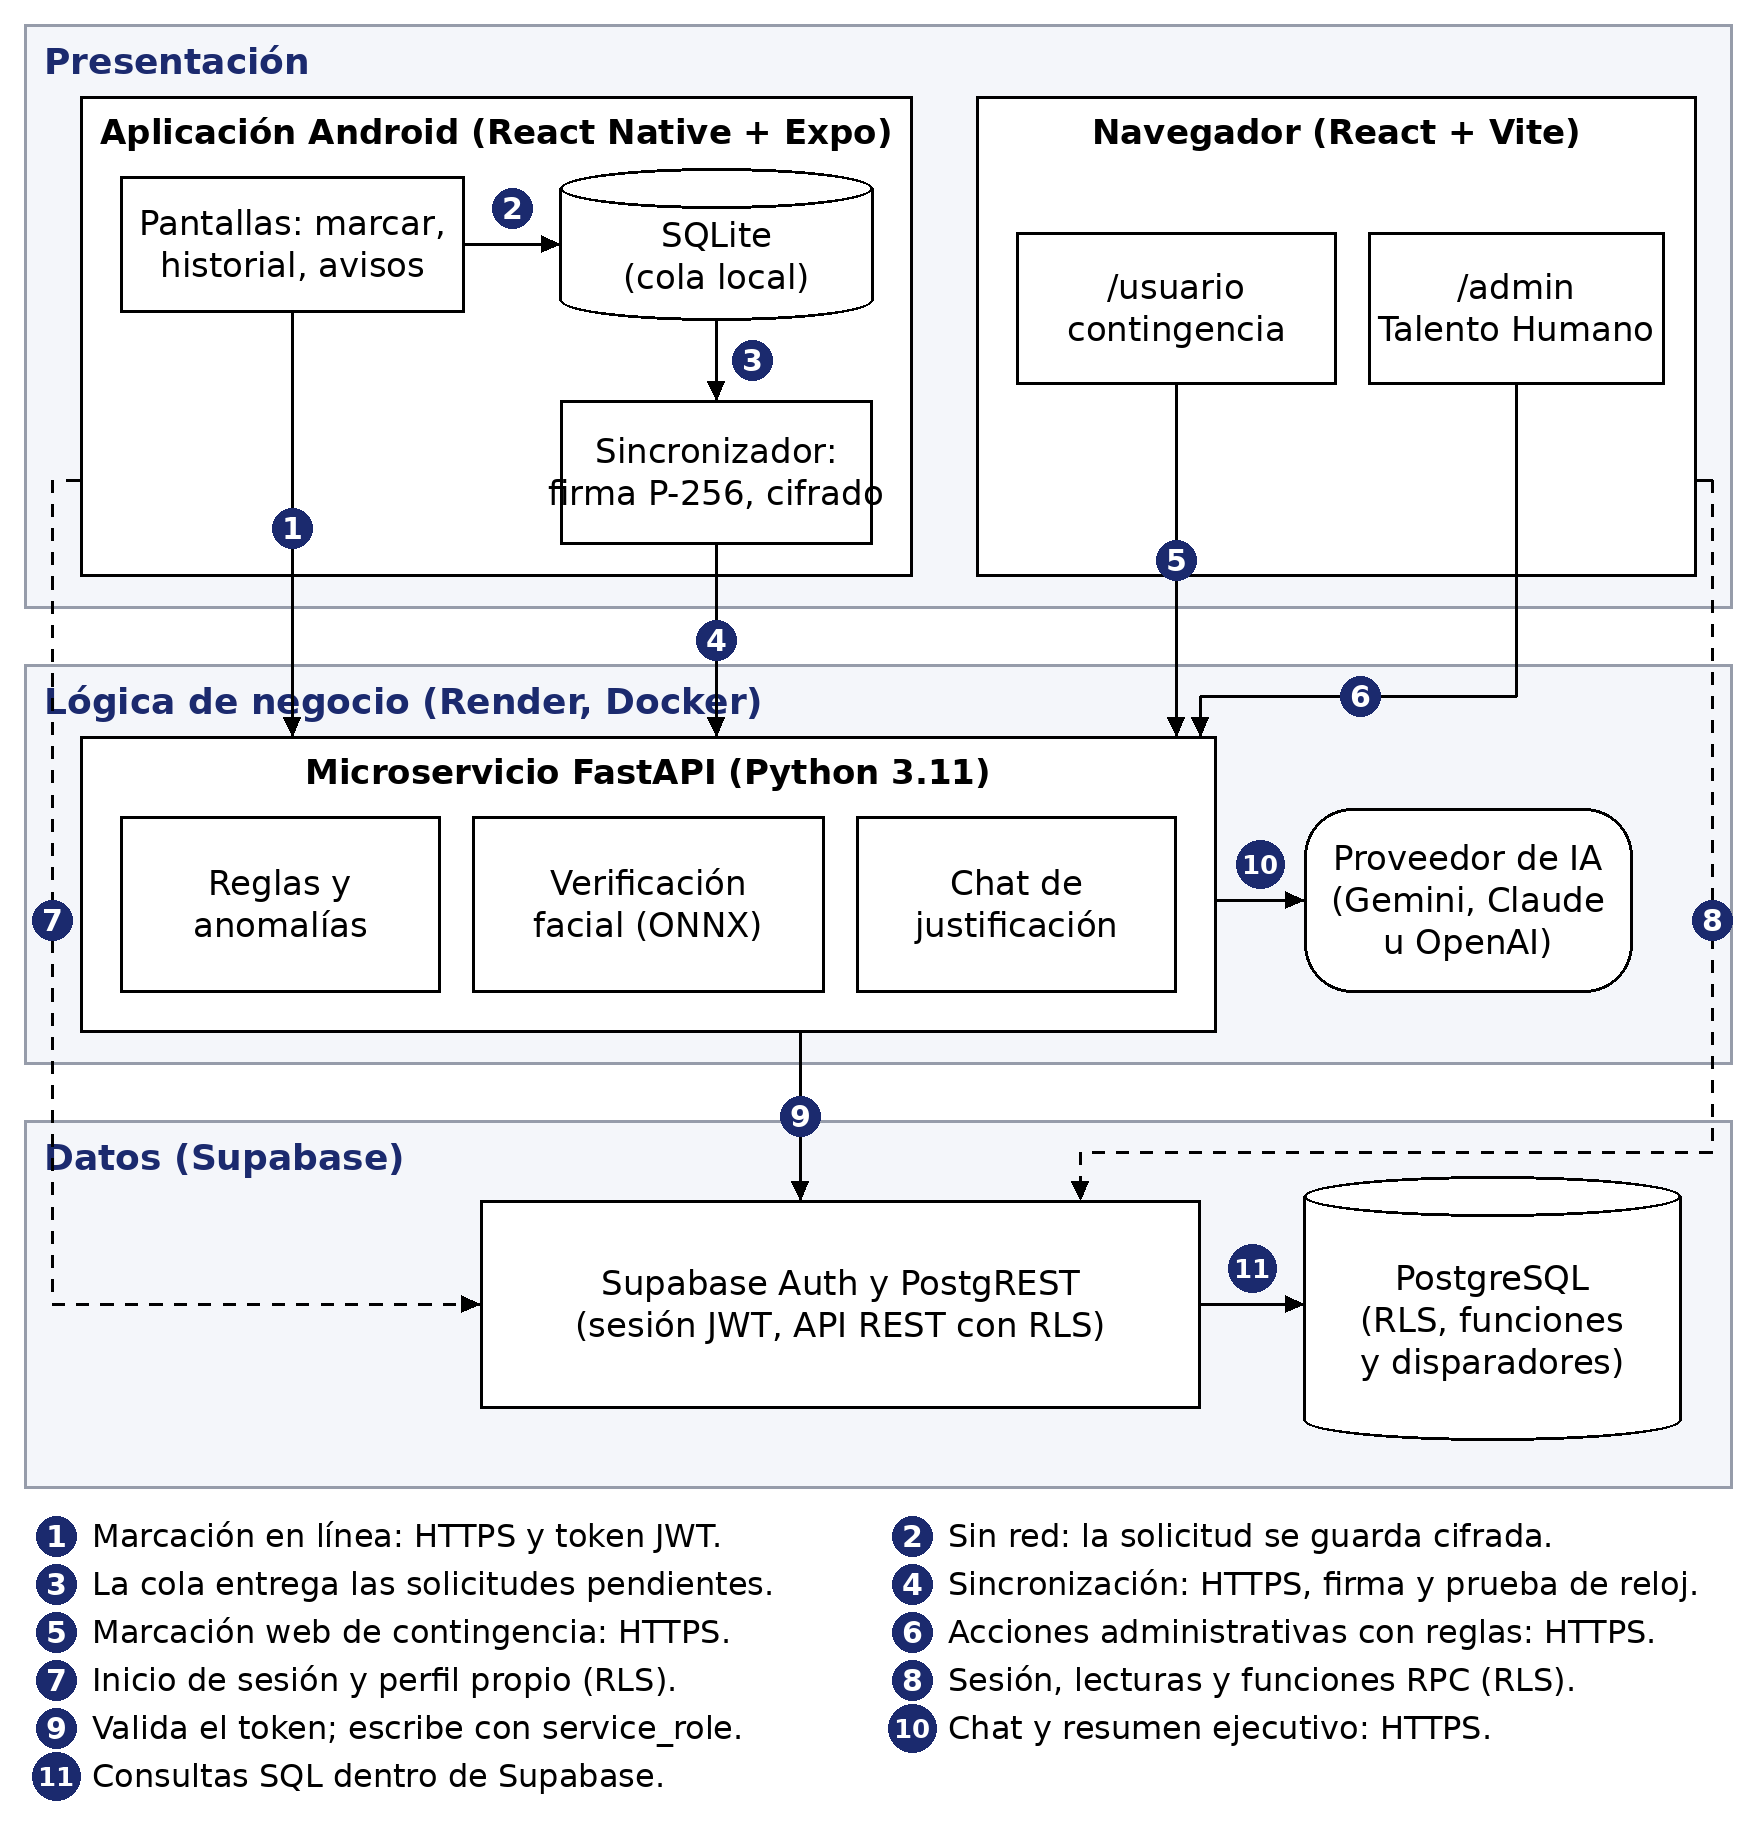
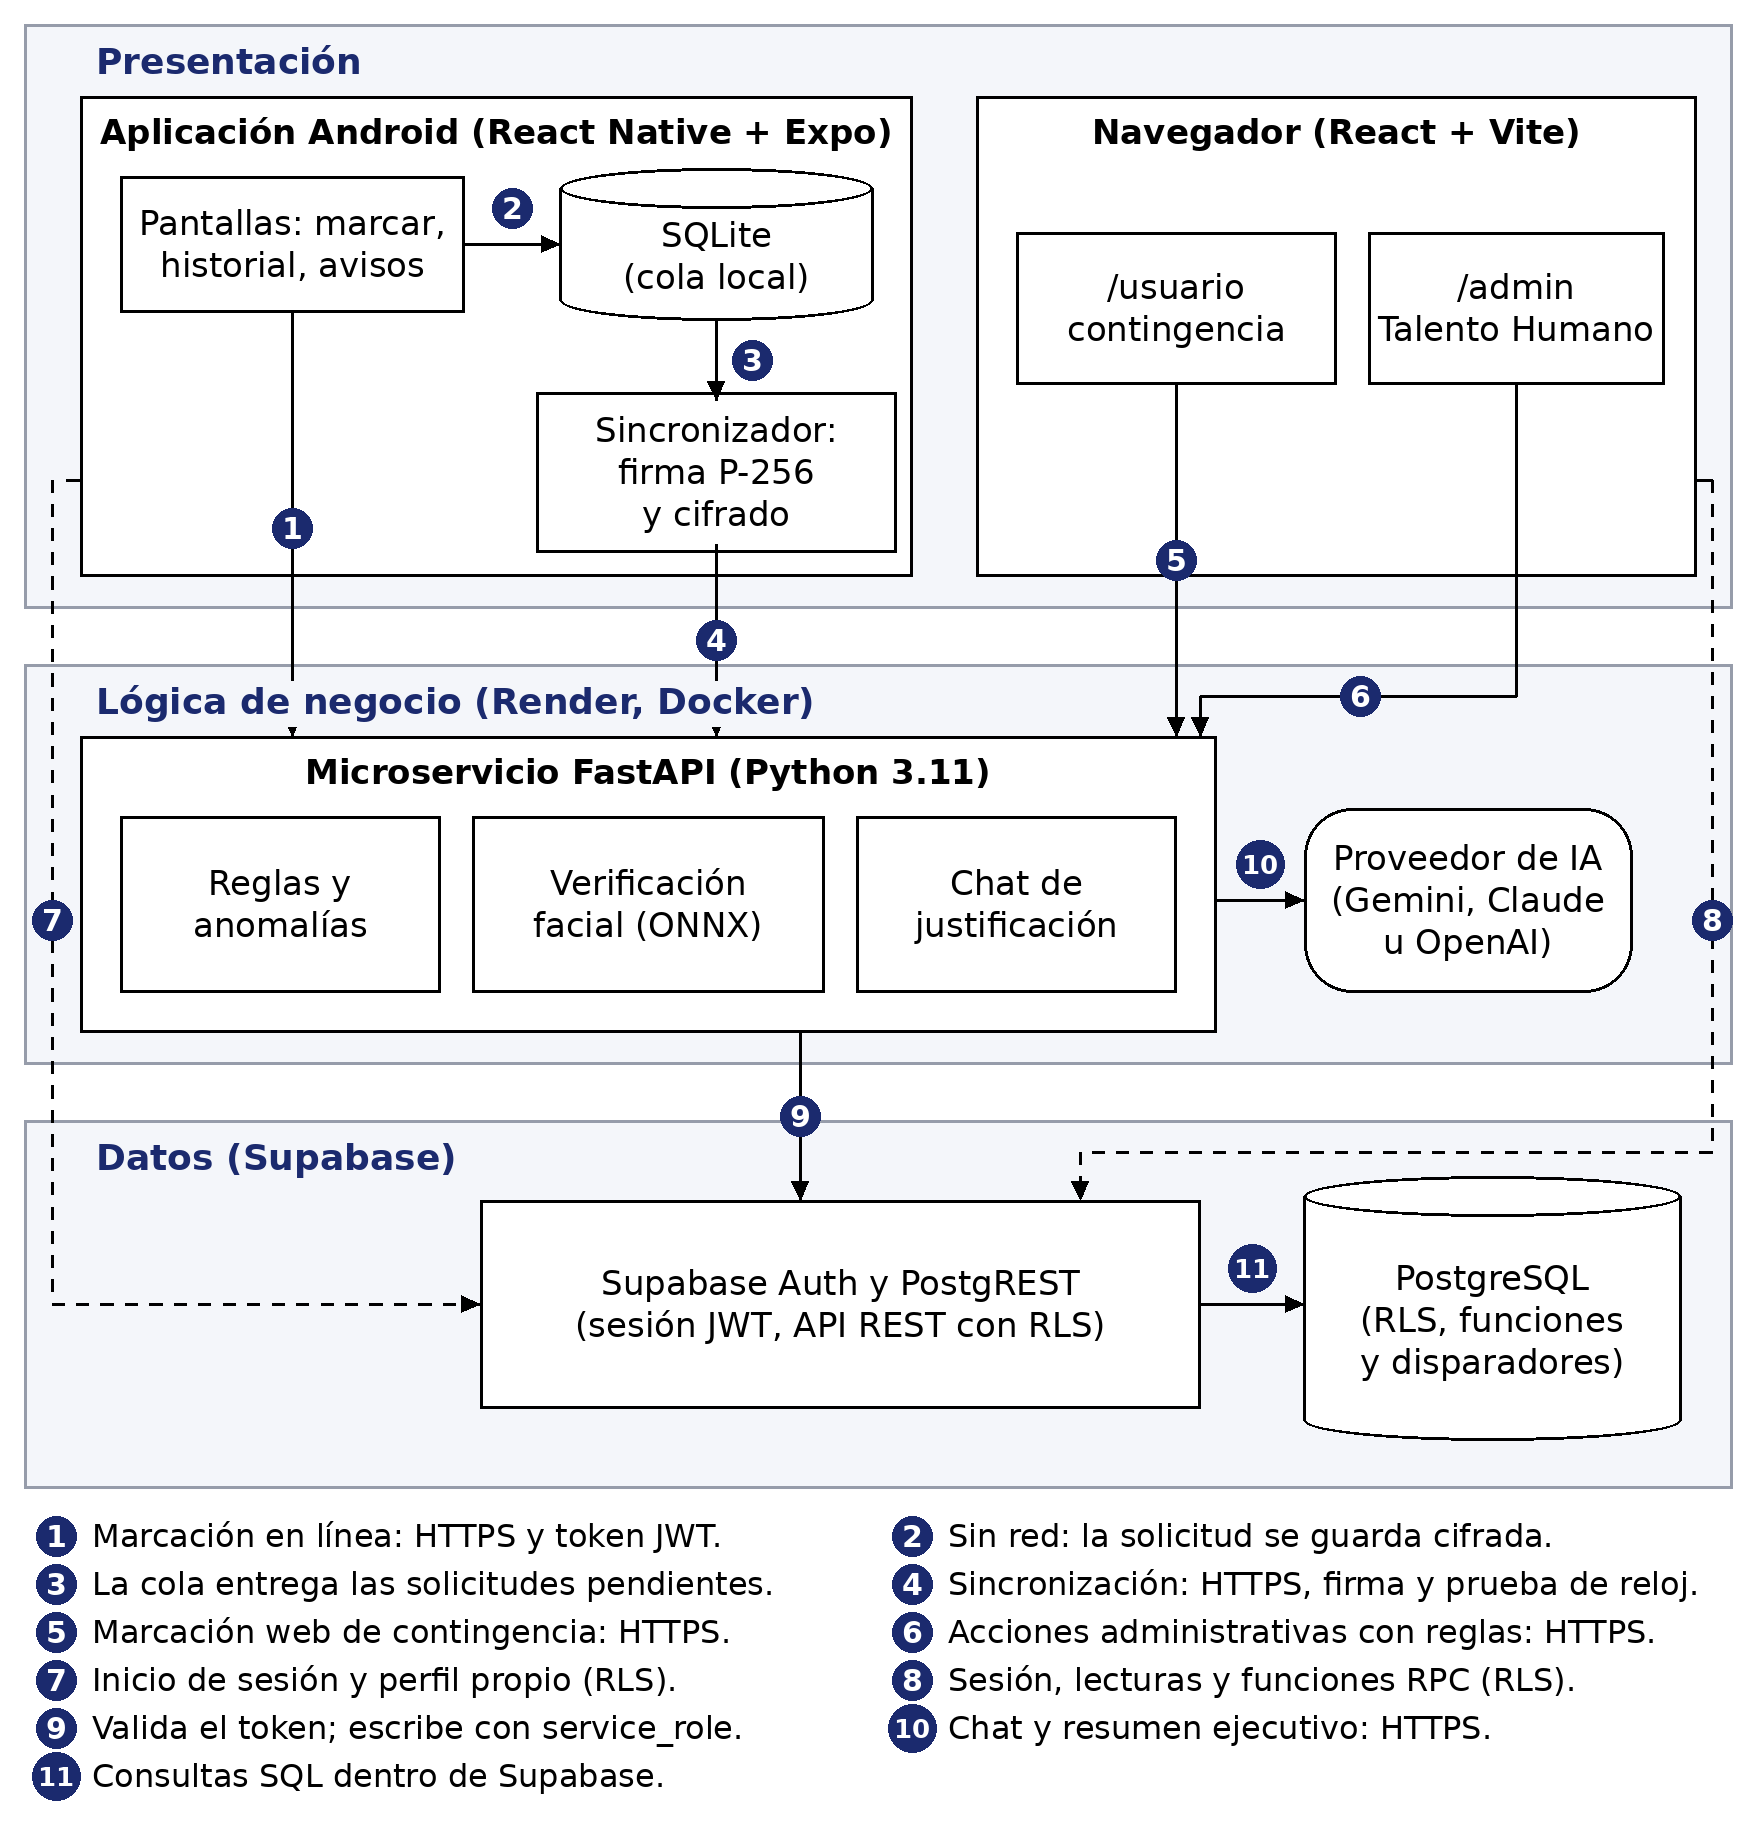
Ajusta las figuras 1 y 2 de la tesis
Figura 1: el texto del sincronizador ya no se sale de su caja y los títulos de las capas quedan sobre las líneas.
Figura 2: el actor pasa a llamarse «Proceso de ausencias», porque el repositorio no programa esa llamada.

diff --git a/docs/tesis/figuras_16_11/arq.py b/docs/tesis/figuras_16_11/arq.py
@@ -6,9 +6,15 @@ f = ImageFont.truetype(FN, int(8.5 * K)); fb = ImageFont.truetype(FB, int(9 * K)
 fbs = ImageFont.truetype(FB, int(8.5 * K))
 C = Lienzo(439, 456); d = C.d; P = C.P; LW = int(0.9 * K)
 GRIS = (90, 90, 90)
+TITULOS = []
 def banda(x1, y1, x2, y2, t):
     d.rectangle([*P(x1, y1), *P(x2, y2)], fill=(244, 246, 250), outline=(150, 156, 170), width=LW)
-    d.text(P(x1 + 5, y1 + 4), t, font=fb, fill=(27, 42, 110), anchor="la")
+    TITULOS.append((x1 + 18, y1 + 4, t))
+def titulos():
+    for x, y, t in TITULOS:
+        bb = d.textbbox(P(x, y), t, font=fb, anchor="la")
+        d.rectangle([bb[0] - 3 * K, bb[1] - 1 * K, bb[2] + 3 * K, bb[3] + 1 * K], fill=(244, 246, 250))
+        d.text(P(x, y), t, font=fb, fill=(27, 42, 110), anchor="la")
 def caja(x1, y1, x2, y2, lineas, titulo=False, fill="white"):
     d.rectangle([*P(x1, y1), *P(x2, y2)], fill=fill, outline="black", width=LW)
     if titulo:
@@ -58,7 +64,7 @@ banda(6, 280, 433, 372, "Datos (Supabase)")
 caja(20, 24, 228, 144, ["Aplicación Android (React Native + Expo)"], titulo=True)
 caja(30, 44, 116, 78, ["Pantallas: marcar,", "historial, avisos"])
 cilindro(140, 42, 218, 80, ["SQLite", "(cola local)"])
-caja(140, 100, 218, 136, ["Sincronizador:", "firma P-256, cifrado"])
+caja(134, 98, 224, 138, ["Sincronizador:", "firma P-256", "y cifrado"])
 caja(244, 24, 424, 144, ["Navegador (React + Vite)"], titulo=True)
 caja(254, 58, 334, 96, ["/usuario", "contingencia"])
 caja(342, 58, 416, 96, ["/admin", "Talento Humano"])
@@ -84,6 +90,7 @@ linea([(424, 120), (428, 120), (428, 288), (270, 288), (270, 300)], dash=True); 
 linea([(200, 258), (200, 300)]); numero(200, 279, 9)
 linea([(304, 225), (326, 225)]); numero(315, 216, 10)
 linea([(300, 326), (326, 326)]); numero(313, 317, 11)
+titulos()
 # Leyenda
 ley = [("1", "Marcación en línea: HTTPS y token JWT."), ("2", "Sin red: la solicitud se guarda cifrada."),
        ("3", "La cola entrega las solicitudes pendientes."), ("4", "Sincronización: HTTPS, firma y prueba de reloj."),

diff --git a/docs/tesis/figuras_16_11/cu.py b/docs/tesis/figuras_16_11/cu.py
@@ -59,7 +59,7 @@ for k, (t, y) in inc.items():
     d.text(P(IX, y - EH / 2 - 1.5), "«include»", font=fi, fill="black", anchor="md")
 # Actores y asociaciones (línea simple, sin punta)
 AU = (36, ys["CU07"] - 40); AA = (36, ys["CU11"] - 4); AP = (36, ys["CU14"] - 4)
-actor(*AU, "Usuario\n(personal\nadministrativo)"); actor(*AA, "Administrador\n(Talento\nHumano)"); actor(*AP, "Proceso\nprogramado")
+actor(*AU, "Usuario\n(personal\nadministrativo)"); actor(*AA, "Administrador\n(Talento\nHumano)"); actor(*AP, "Proceso de\nausencias")
 def asoc(a, c, dy=-4):
     x, y = a[0] + 9, a[1] + dy
     ex, ey = CX - (EW if c != "CU10" else 156) / 2, ys[c]
